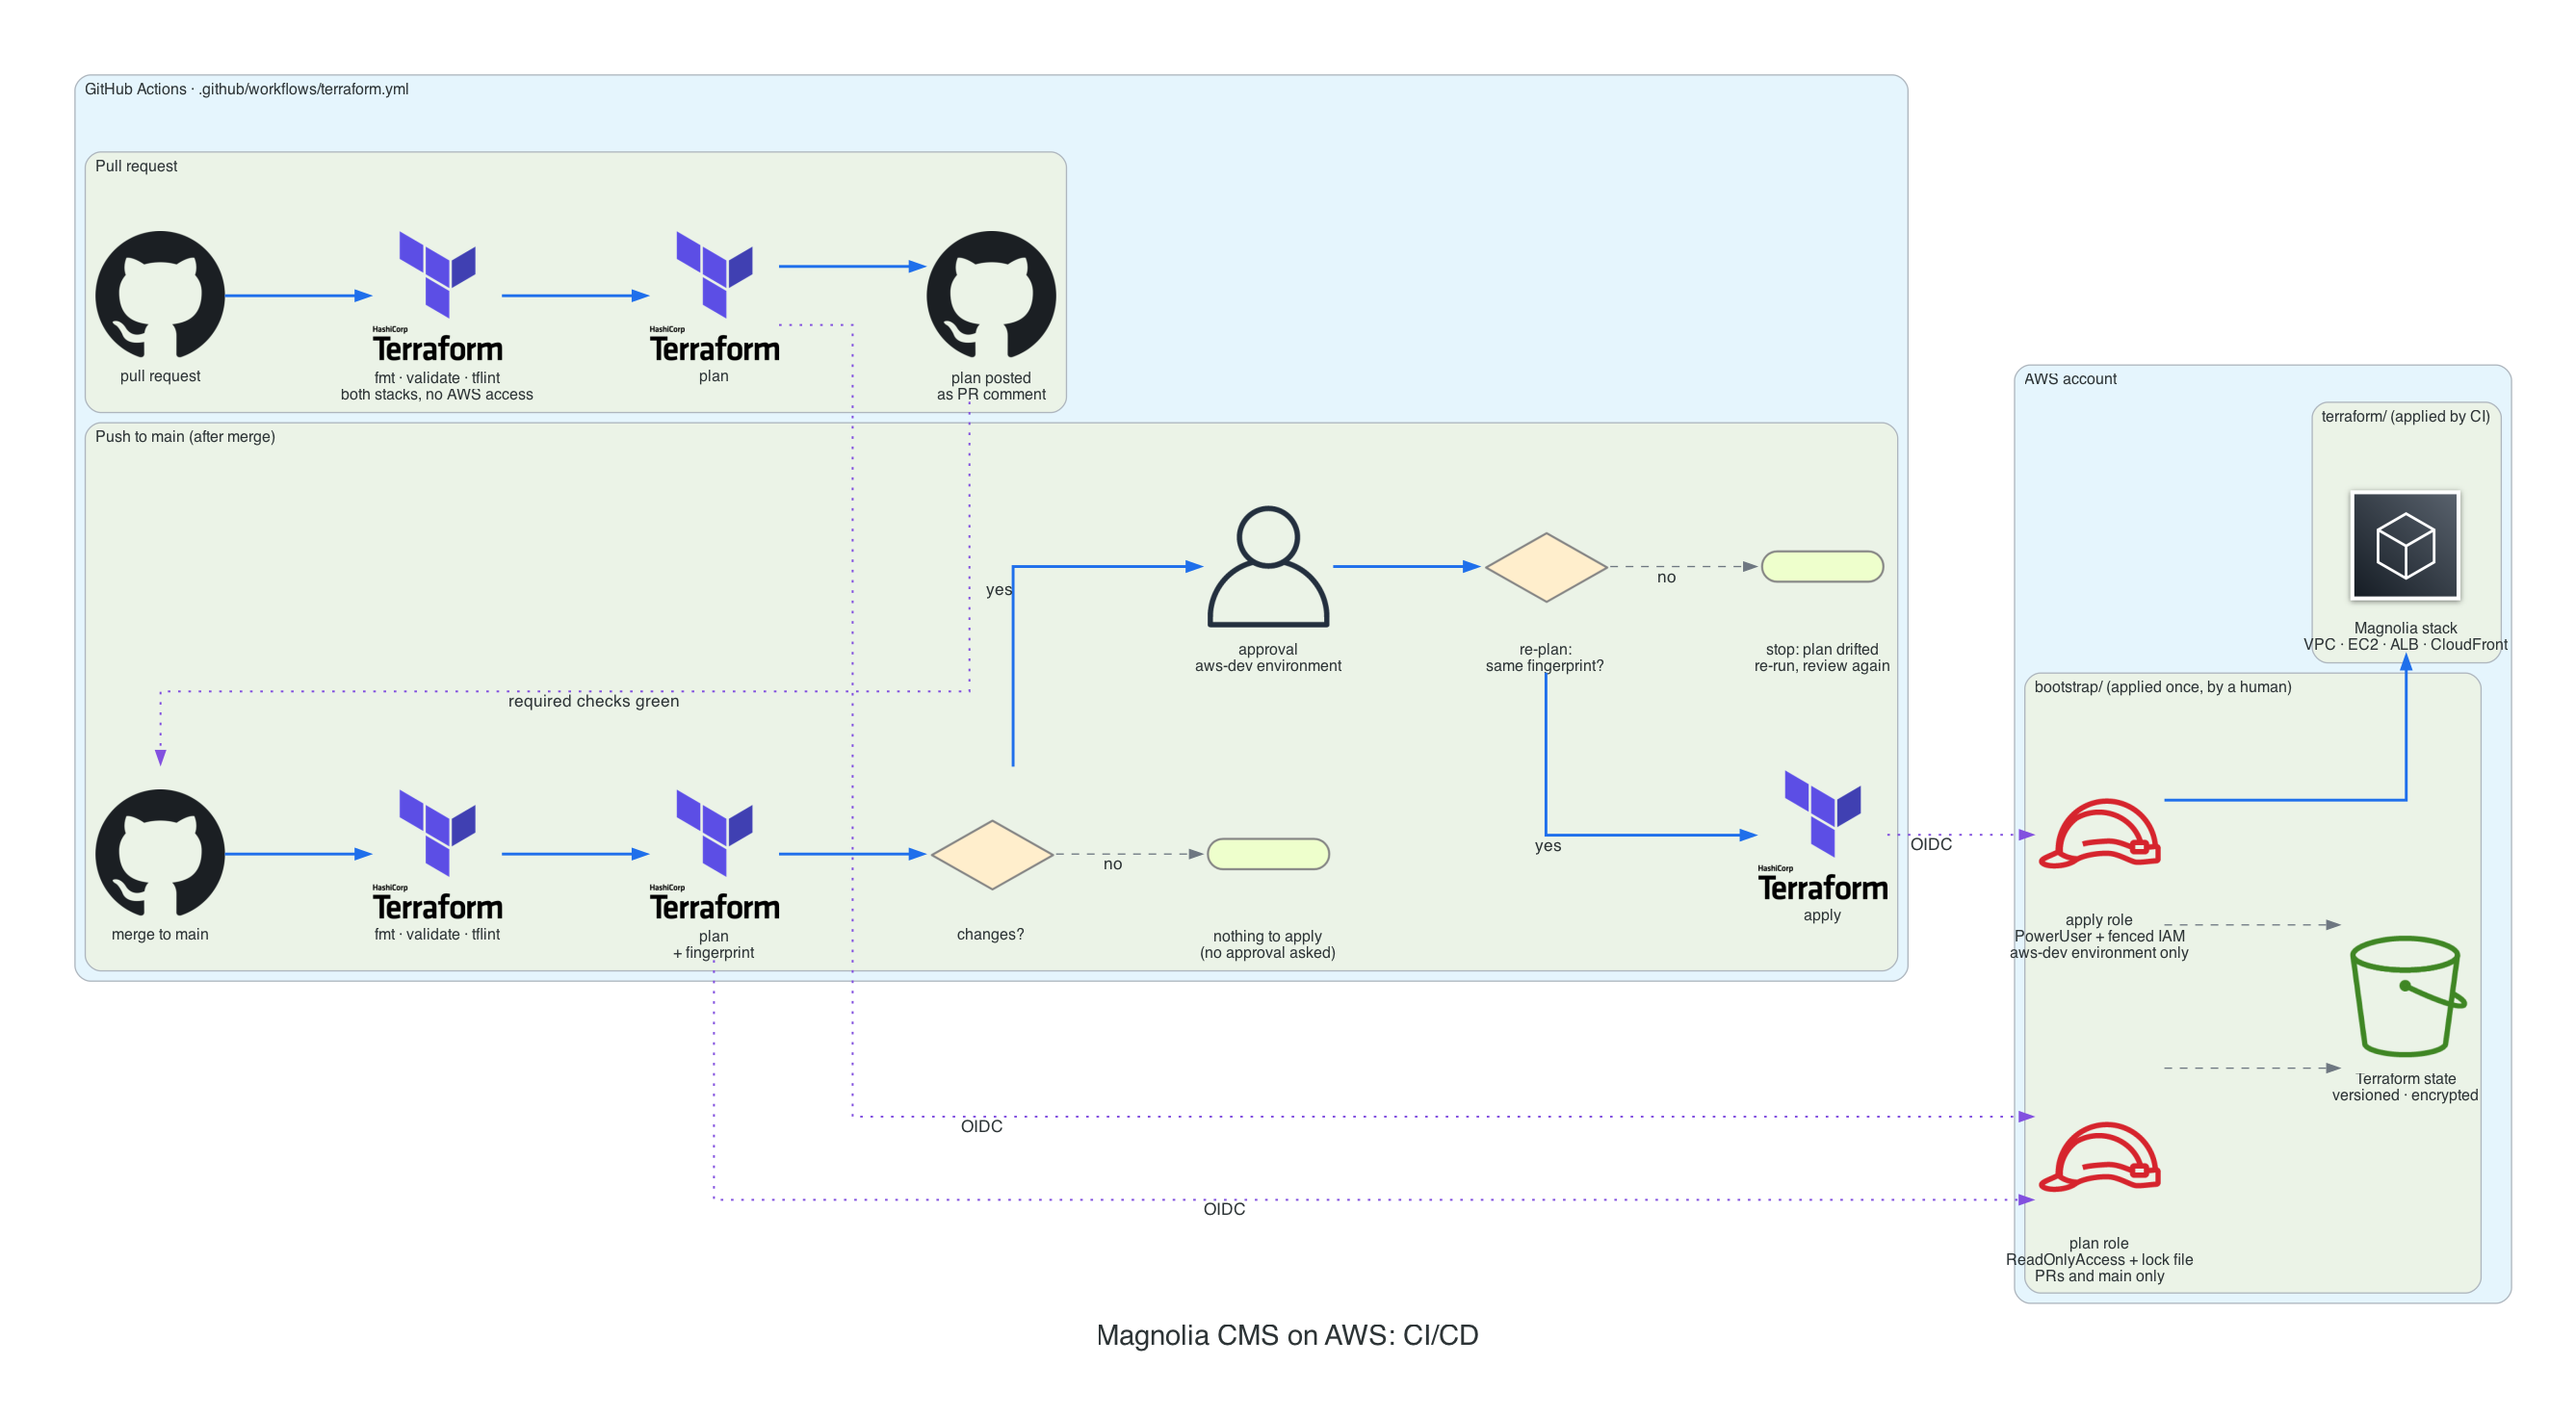
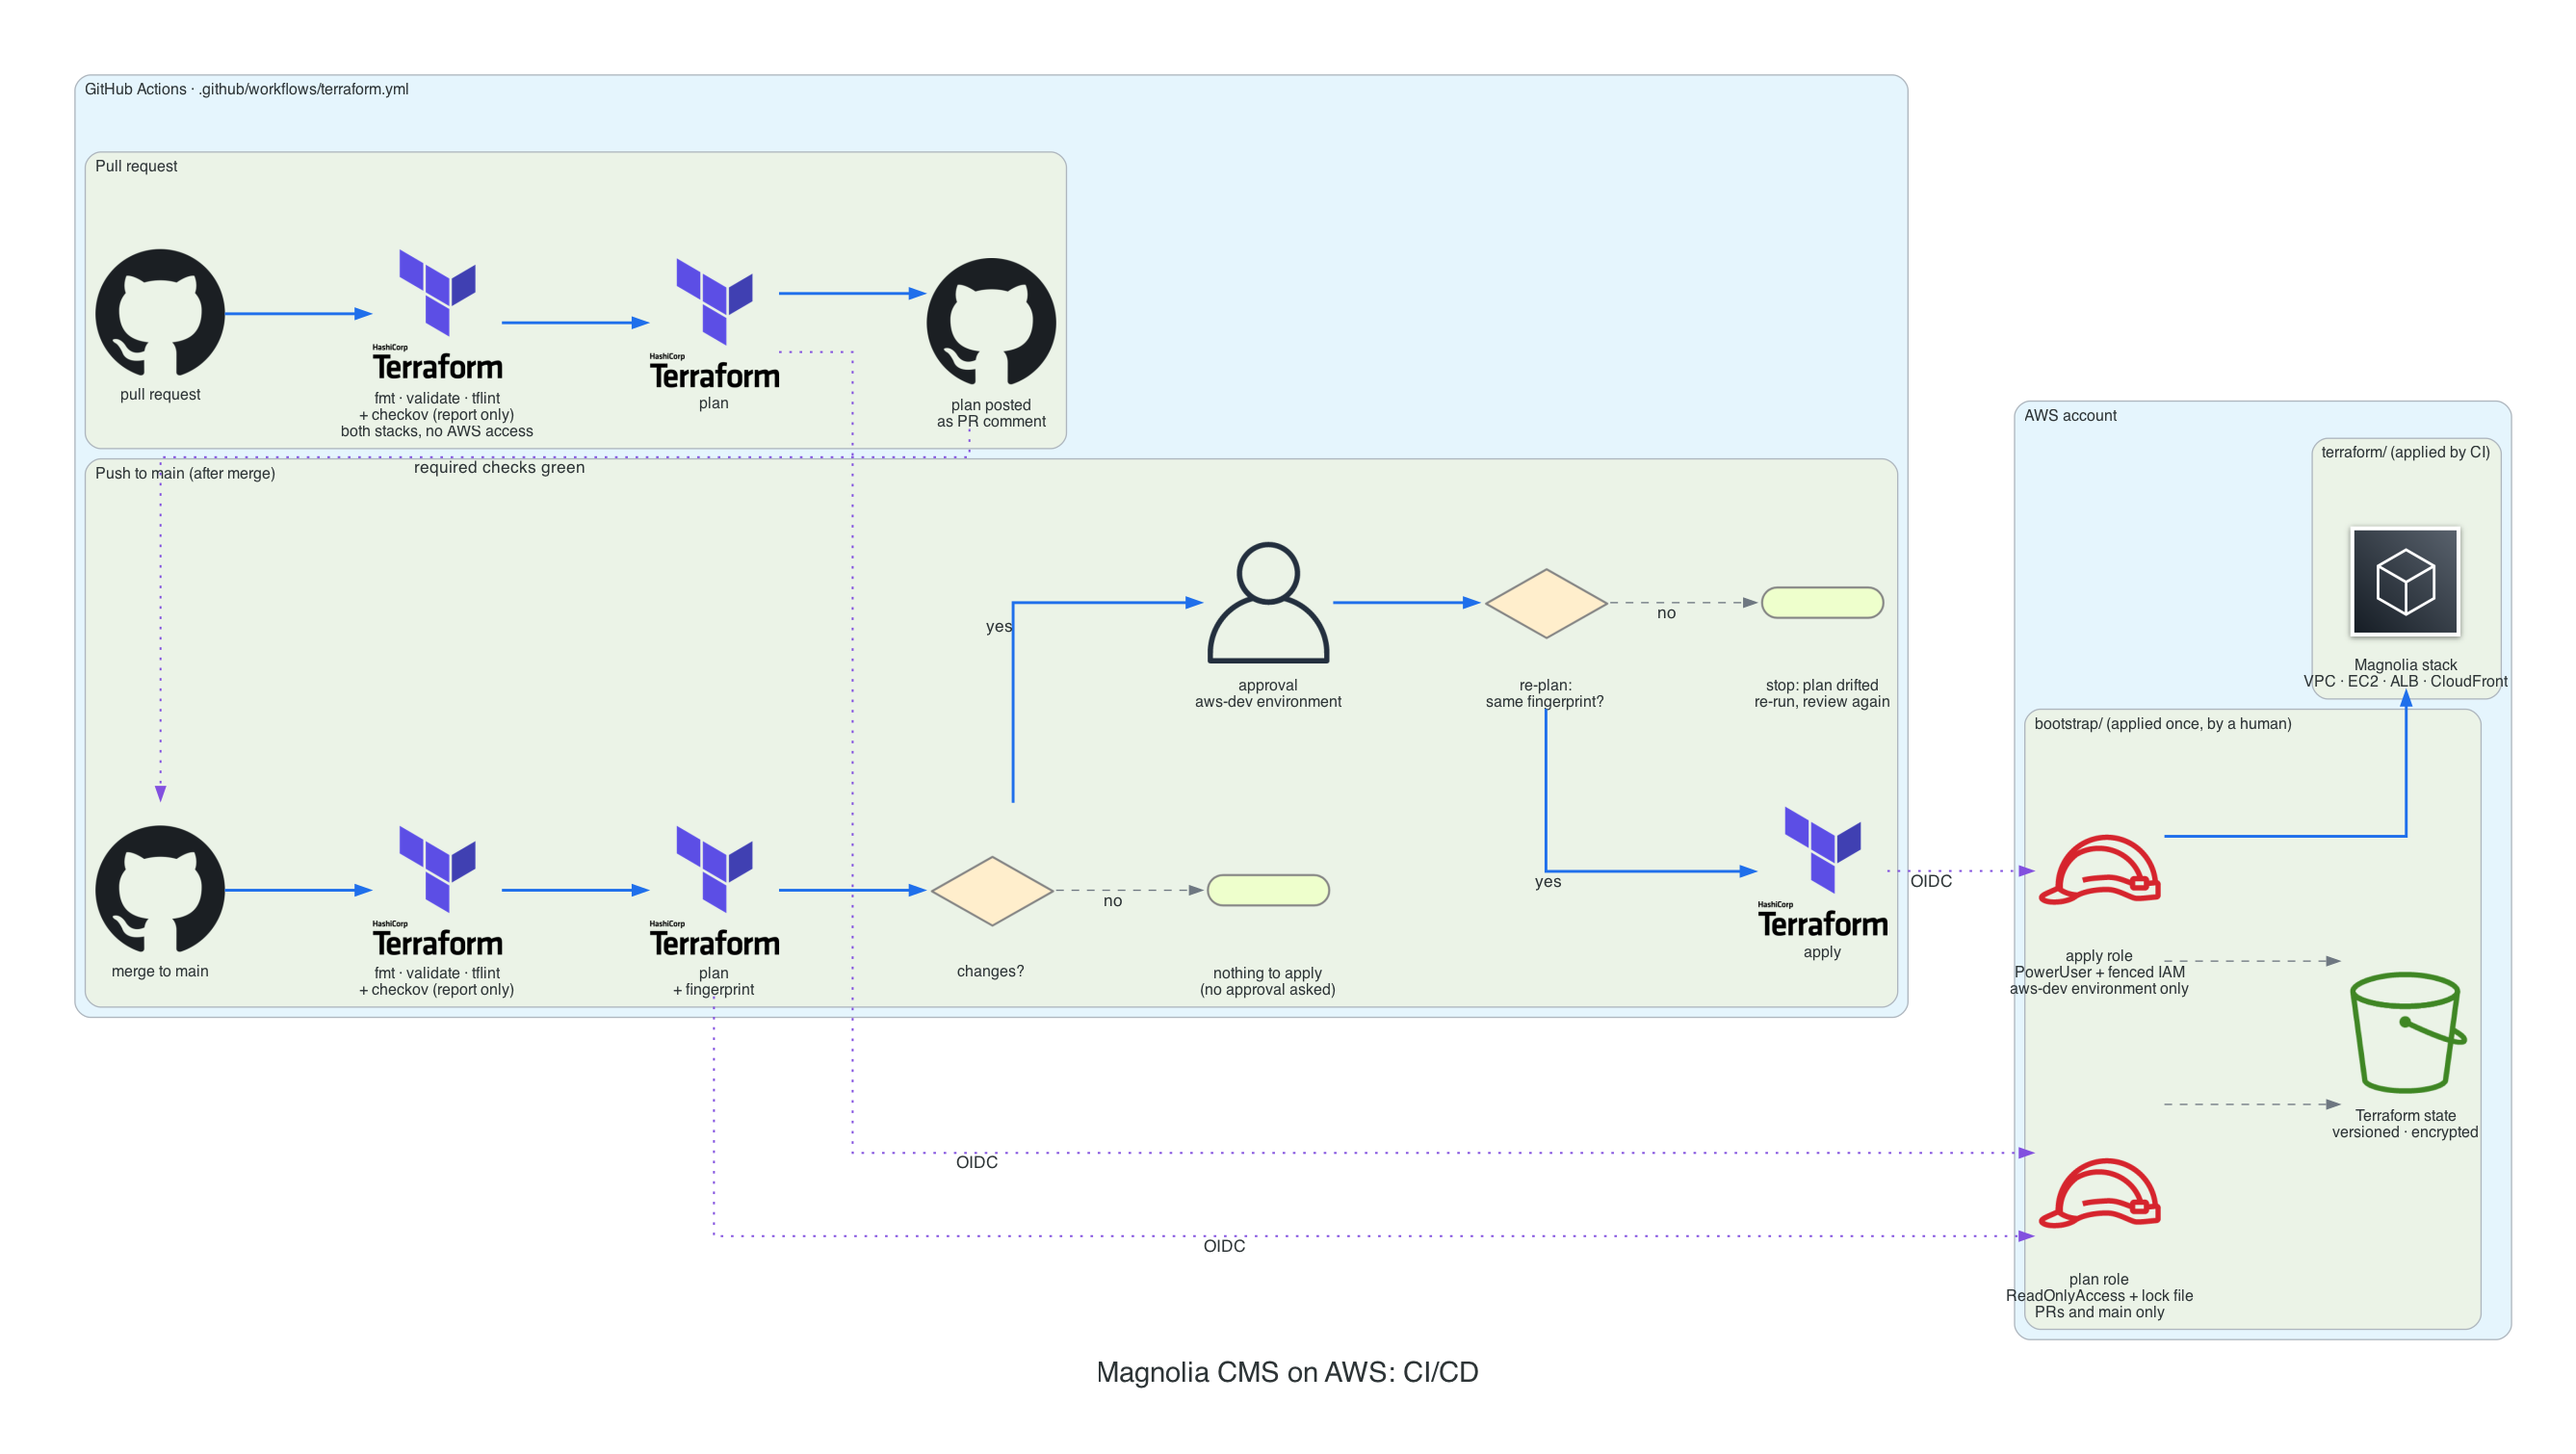
Show the Checkov scan in the CI/CD diagram (#13)
Both lanes now list Checkov next to fmt, validate and tflint, marked report-only because it never blocks a merge.

diff --git a/docs/cicd.py b/docs/cicd.py
@@ -38,13 +38,13 @@ with Diagram(
     with Cluster("GitHub Actions · .github/workflows/terraform.yml"):
         with Cluster("Pull request"):
             pr = Github("pull request")
-            pr_checks = Terraform("fmt · validate · tflint\nboth stacks, no AWS access")
+            pr_checks = Terraform("fmt · validate · tflint\n+ checkov (report only)\nboth stacks, no AWS access")
             pr_plan = Terraform("plan")
             pr_comment = Github("plan posted\nas PR comment")
 
         with Cluster("Push to main (after merge)"):
             merge = Github("merge to main")
-            main_checks = Terraform("fmt · validate · tflint")
+            main_checks = Terraform("fmt · validate · tflint\n+ checkov (report only)")
             main_plan = Terraform("plan\n+ fingerprint")
             changes = Decision("changes?")
             nothing = StartEnd("nothing to apply\n(no approval asked)")

diff --git a/docs/ci-cd.md b/docs/ci-cd.md
@@ -2,7 +2,7 @@
 
 [← README](../README.md)
 
-![CI/CD: a pull request runs fmt, validate and plan and posts the plan as a comment; a merge to main runs plan, waits for approval in the aws-dev environment, re-plans, and applies only if the plan fingerprint is unchanged.](cicd.png)
+![CI/CD: a pull request runs fmt, validate, a report-only Checkov scan and plan, and posts the plan as a comment; a merge to main runs plan, waits for approval in the aws-dev environment, re-plans, and applies only if the plan fingerprint is unchanged.](cicd.png)
 
 The workflow is [`.github/workflows/terraform.yml`](../.github/workflows/terraform.yml).
 
